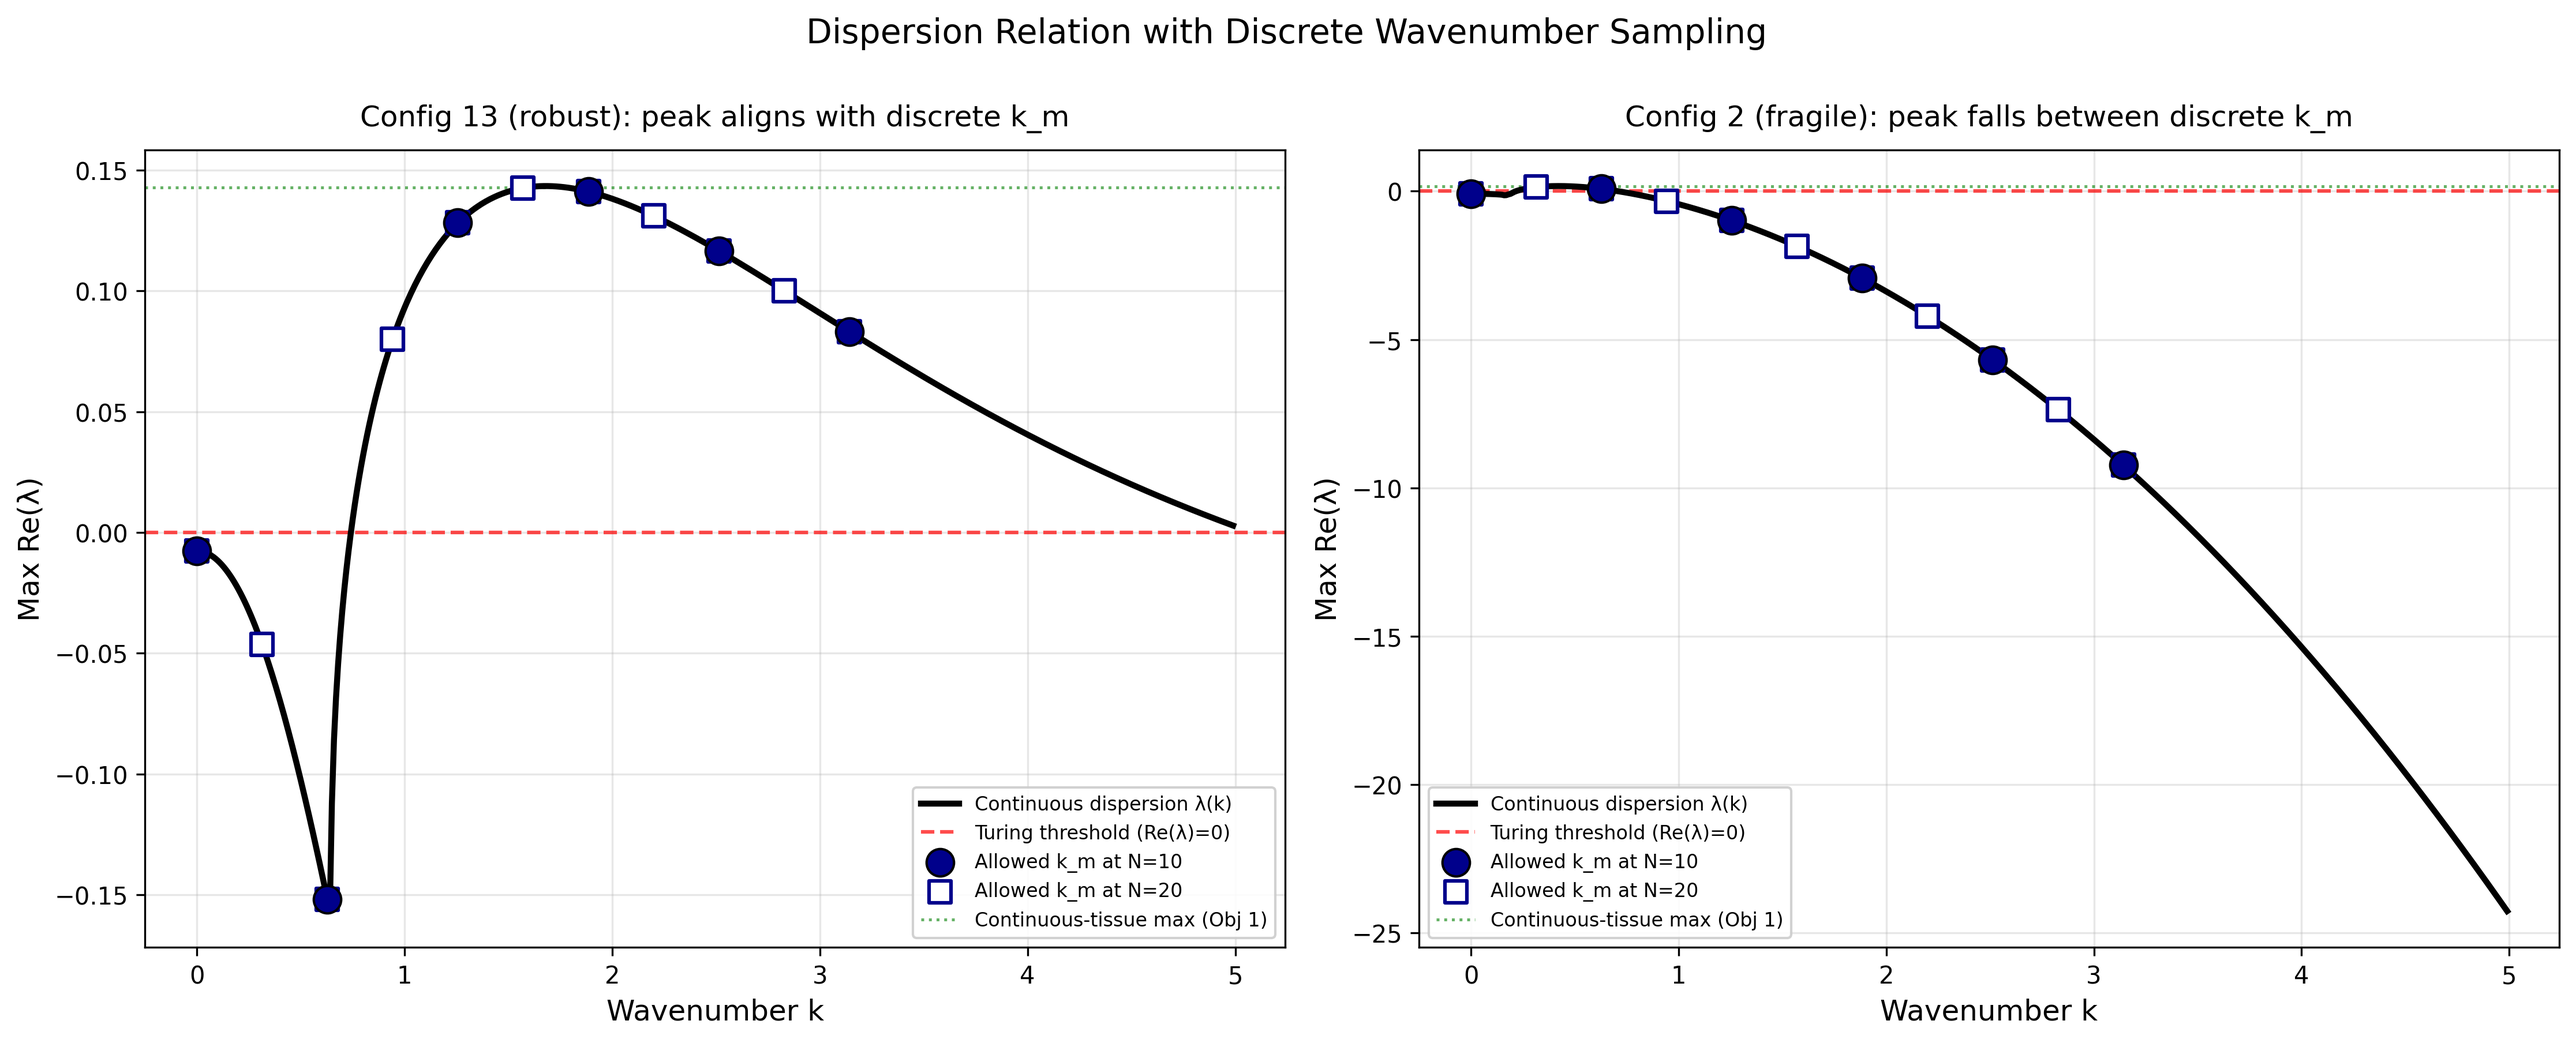
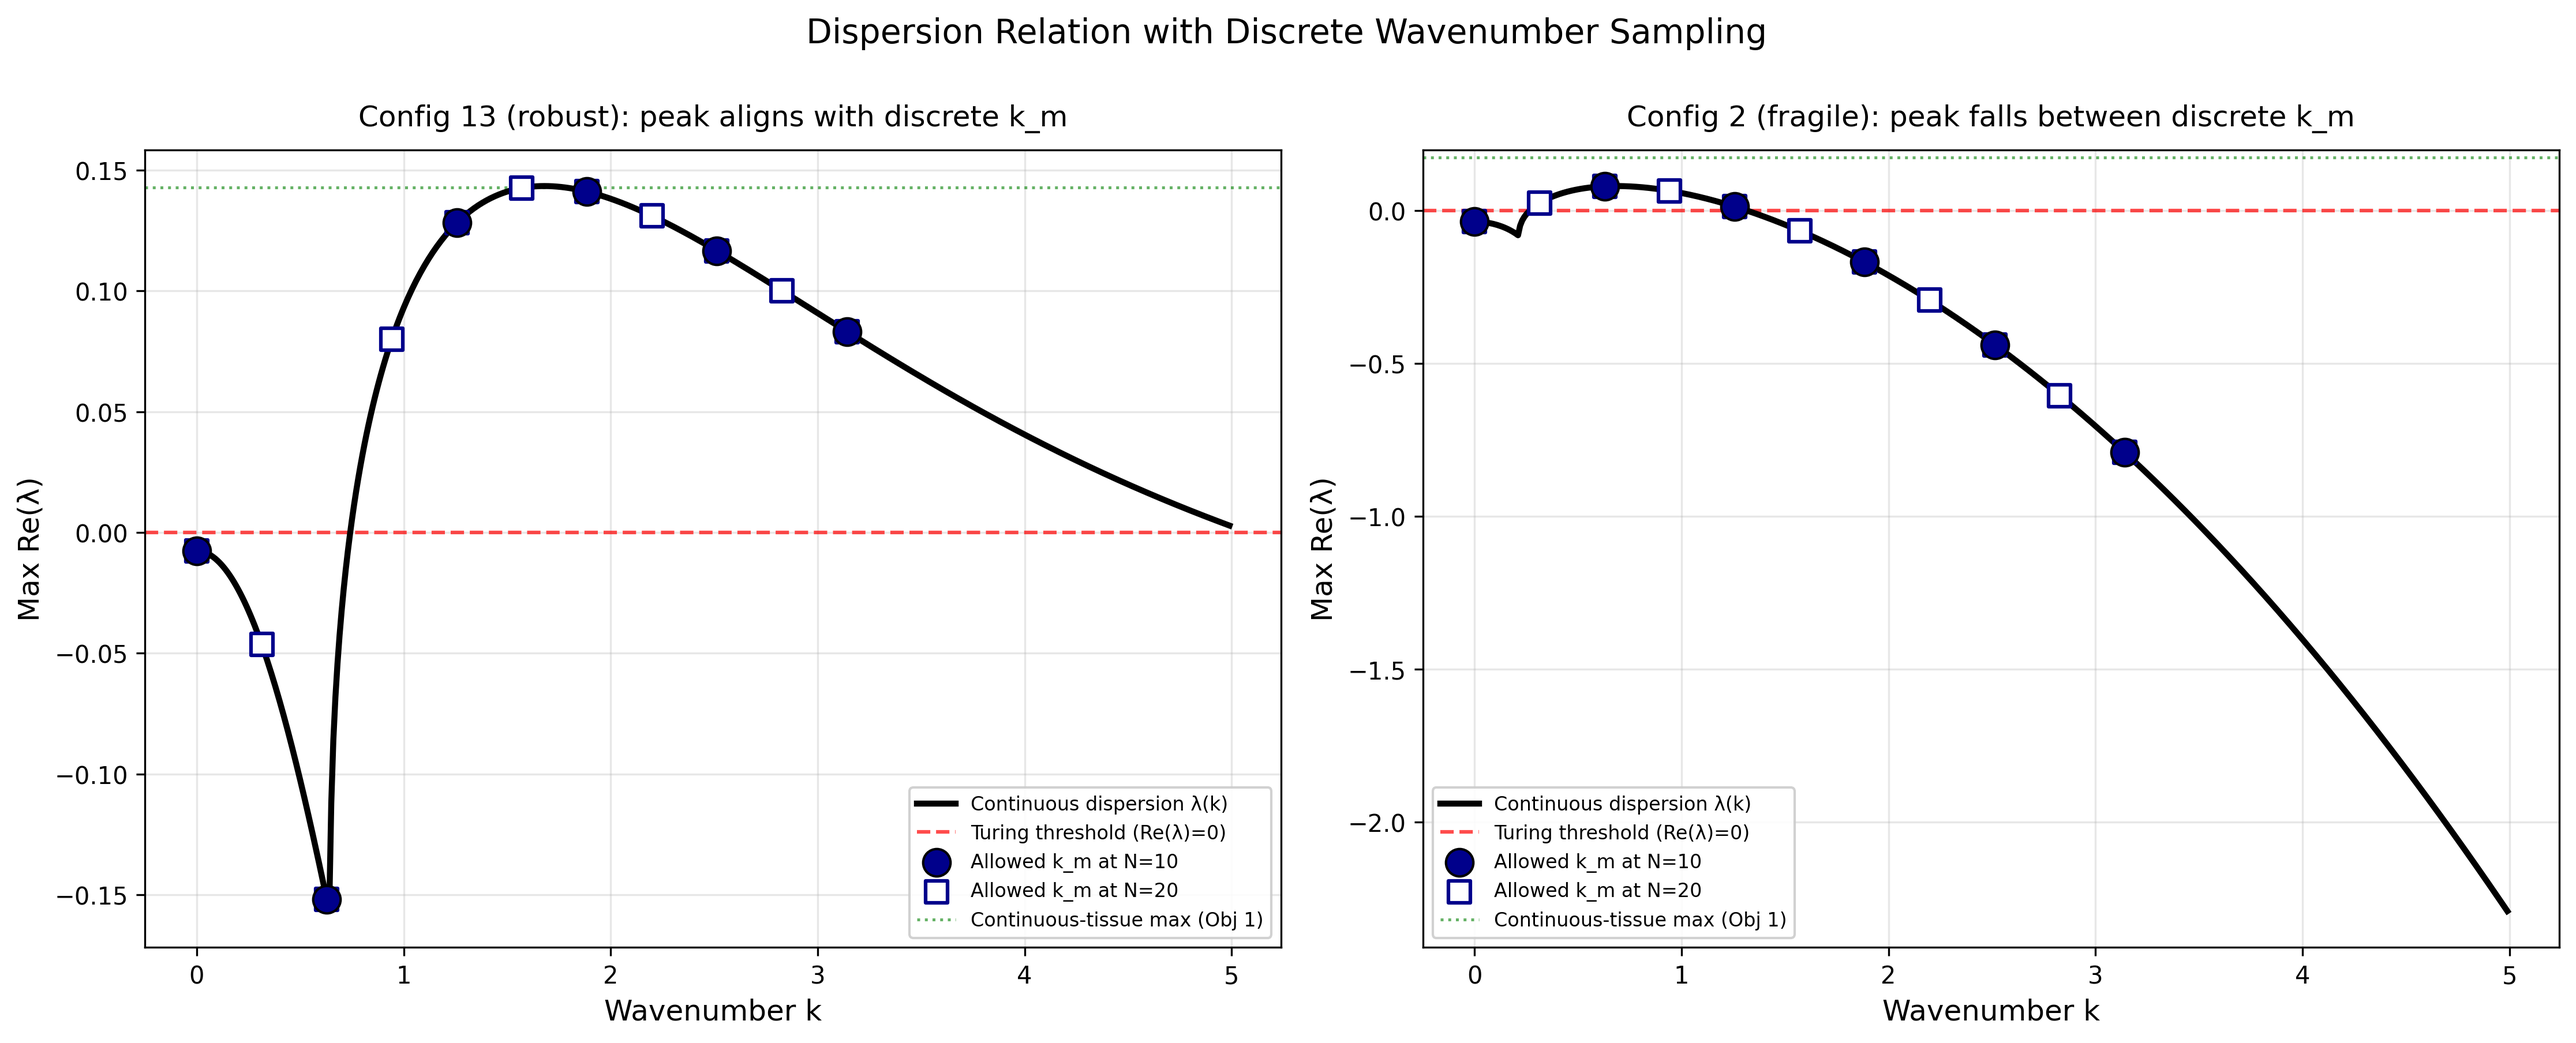
girl i am so lost rn

diff --git a/BiologicalRealism/dispersion_plots.py b/BiologicalRealism/dispersion_plots.py
@@ -20,7 +20,7 @@ from heterogenous_ring_3954 import (
 # have to run this first: pip install seaborn --user
 
 
-CSV_PATH = '../TopologyRanking/Topology3954/3954_NEW_lhs_results_parameters.csv'
+CSV_PATH = '../TopologyRanking/Topology3954/3954_PREFINAL_lhs_results_parameters.csv'
 
 def load_config(config_id):
     df = pd.read_csv(CSV_PATH)
@@ -34,10 +34,9 @@ def load_config(config_id):
     hopping = {'h_u': row['dU'], 'h_v': row['dV'], 'h_w': row['dW']}
     return params, ss, hopping
 
-
 print("Loading configs...")
-params_13, ss_13, hopping_13 = load_config(13) #rename so its jsut robust and fragile instead of the numbers itself...
-params_2,  ss_2,  hopping_2  = load_config(2)
+params_13, ss_13, hopping_13 = load_config(45) #rename so its jsut robust and fragile instead of the numbers itself...
+params_2,  ss_2,  hopping_2  = load_config(4)
 
 def compute_dispersion(local_jacobian, hopping_dict, k_values):
     """Compute max Re(λ) of [J - k²·D] for each k in k_values."""
